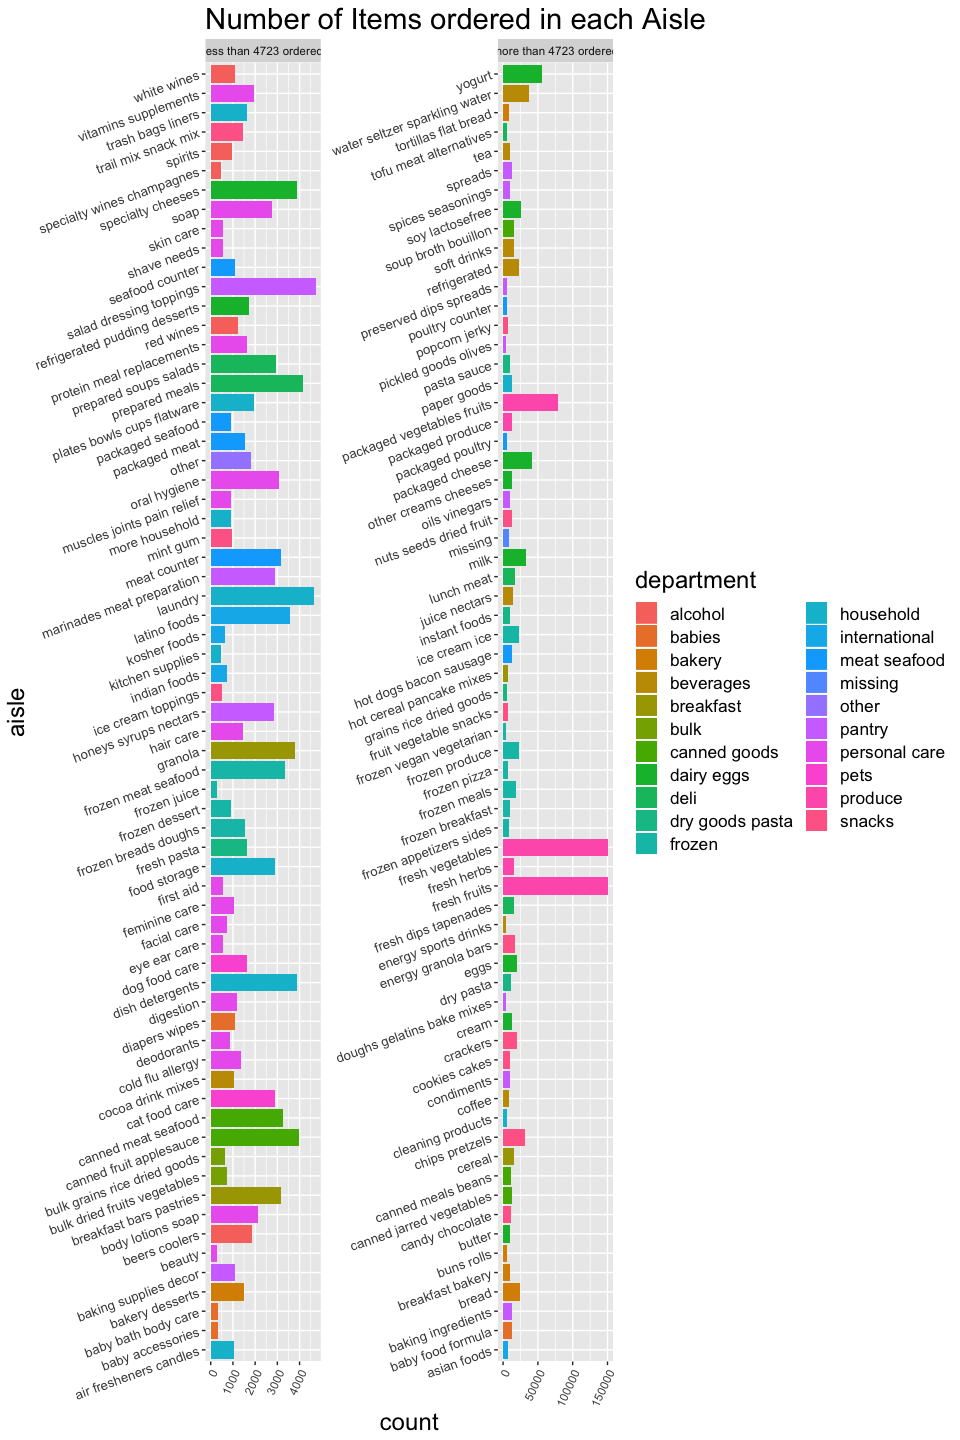
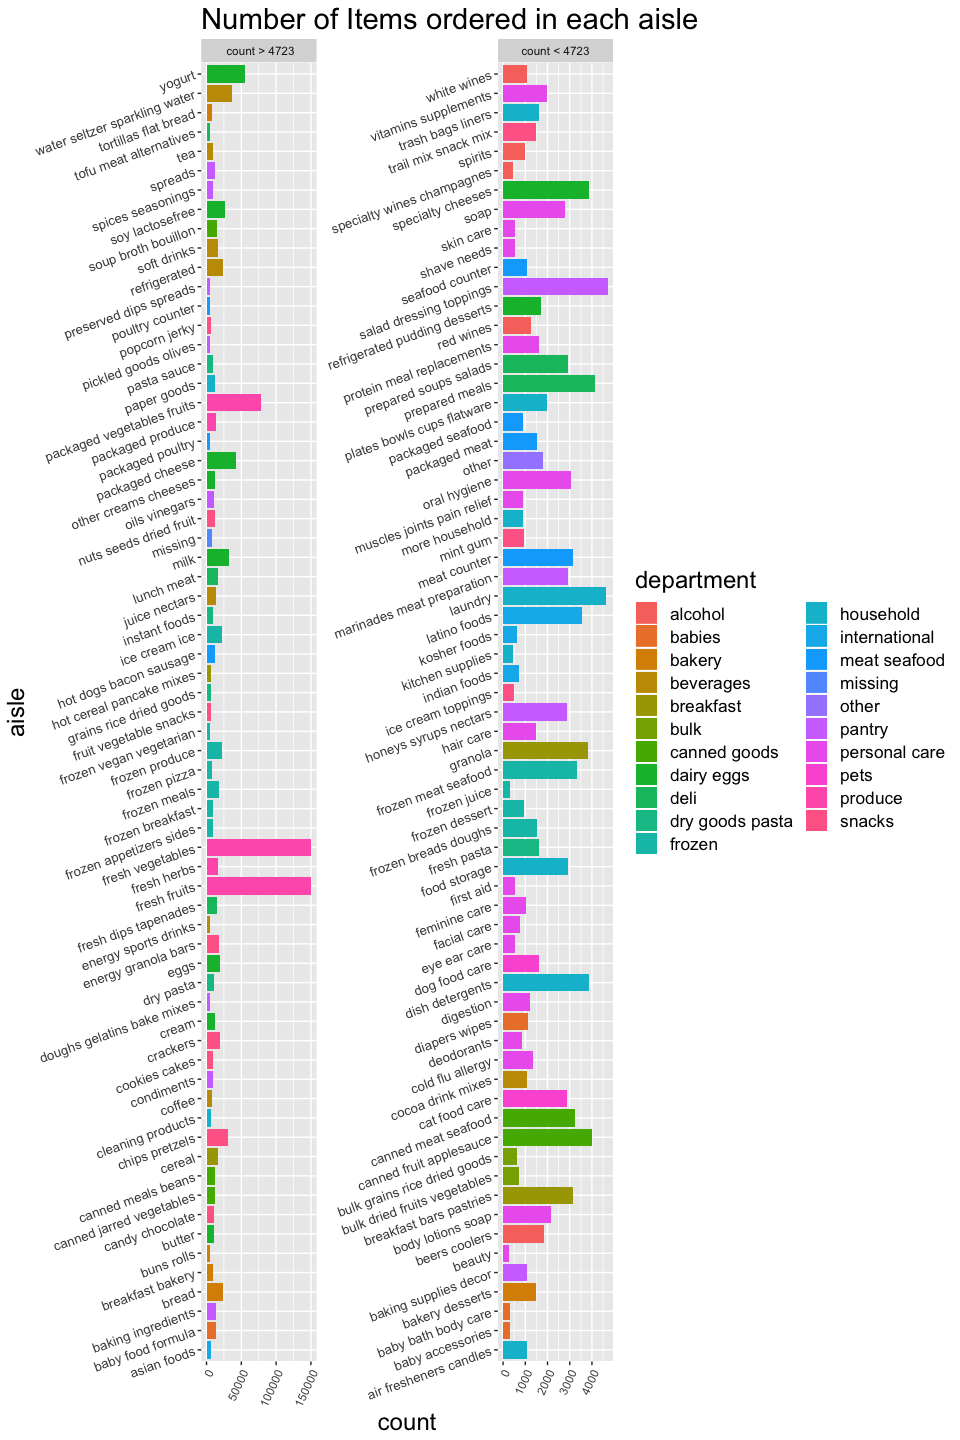
problem 3 - data cleaning

Changed region(s): [[0.0625, 0.0, 0.75, 1.0], [0.375, 0.7188, 0.4062, 0.75], [0.0625, 0.7188, 0.0938, 0.75]]

diff --git a/p8105_hw3.md b/p8105_hw3.md
@@ -94,9 +94,9 @@ data(instacart)
 aisle_count = instacart %>% 
   group_by(aisle, department) %>% 
   summarise(n = n()) %>% 
-  mutate(split = ifelse(n > 4723, "more than 4723 ordered", "less than 4723 ordered"))
+  mutate(split = ifelse(n > 4723, " count > 4723", "count < 4723")) 
 
-ggplot(aisle_count, aes(x = aisle, y = n, fill = department)) + geom_bar(stat="identity") + labs(title = "Number of Items ordered in each Aisle", y = "count") + theme(axis.text.y = element_text(angle = 20, hjust = 1)) + facet_wrap(~ split, scales = "free",  ncol = 2) + theme(axis.text.x = element_text(angle = 65, hjust = 1), axis.text.y = element_text(size = 10), plot.title = element_text(size = 22), legend.text = element_text(size = 13), axis.title.x = element_text(size = 18), axis.title.y = element_text(size = 18), legend.title=element_text(size=18)) + coord_flip()
+ggplot(aisle_count, aes(x = aisle, y = n, fill = department)) + geom_bar(stat="identity") + labs(title = "Number of Items ordered in each aisle", y = "count") + theme(axis.text.y = element_text(angle = 20, hjust = 1)) + facet_wrap(~ split, scales = "free",  ncol = 2) + theme(axis.text.x = element_text(angle = 65, hjust = 1), axis.text.y = element_text(size = 10), plot.title = element_text(size = 22), legend.text = element_text(size = 13), axis.title.x = element_text(size = 18), axis.title.y = element_text(size = 18), legend.title = element_text(size=18)) + coord_flip()
 ```
 
 ![](p8105_hw3_files/figure-gfm/unnamed-chunk-3-1.png)<!-- -->
@@ -110,7 +110,7 @@ popular_items = instacart %>%
   group_by(aisle) %>%  slice(which.max(n)) %>% 
   select(aisle, product_name)
 
-kable(popular_items, caption = "Most Popular Items")
+kable(popular_items, caption = "Most Popular Item in Each Aisle")
 ```
 
 | aisle                      | product\_name                                 |
@@ -119,7 +119,7 @@ kable(popular_items, caption = "Most Popular Items")
 | dog food care              | Snack Sticks Chicken & Rice Recipe Dog Treats |
 | packaged vegetables fruits | Organic Baby Spinach                          |
 
-Most Popular Items
+Most Popular Item in Each Aisle
 
 ``` r
 order_hour = instacart %>% 
@@ -140,3 +140,47 @@ kable(order_hour, digits = 2, col.names = c("Product Name", "Monday", "Tuesday",
 | Pink Lady Apples |  13.44 |   11.36 |     11.70 |    14.25 |  11.55 |    12.78 |  11.94 |
 
 Mean Hour of Day Orders are Placed
+
+## Problem 3
+
+The original dataset from NOAA National Climatic Data Center has 7
+columns and 2595176 rows, with a lot of missing entries. The column
+names are id, date, prcp, snow, snwd, tmax, tmin. The id gives the
+weather station ID, and the rest of the columns record snowfall related
+observations by date. There are a lot of missing data because each
+weather station may not collect data every day, and might not have
+collected for all variables.
+
+Here I cleaned the data by converting the date column into 3 columns:
+year, month, day. I switched the units for snow (snowfall) and snwd
+(snow depth) from mm to inches, prcp (precipitation) from tenths of mm
+to mm, and tmax/tmin (temperature) from tenths of Celcius to Celcius.
+
+``` r
+data(ny_noaa)
+
+noaa = ny_noaa %>% 
+  separate(date, into = c("year", "month", "day"), sep = "-") %>% 
+  mutate(snow = snow*0.039, snwd = snwd*0.039, prcp = prcp*0.1, tmax = as.numeric(tmax)*0.1, tmin = as.numeric(tmin)*0.1) 
+kable(head(noaa))
+```
+
+| id          | year | month | day | prcp | snow | snwd | tmax | tmin |
+| :---------- | :--- | :---- | :-- | ---: | ---: | ---: | ---: | ---: |
+| US1NYAB0001 | 2007 | 11    | 01  |   NA |   NA |   NA |   NA |   NA |
+| US1NYAB0001 | 2007 | 11    | 02  |   NA |   NA |   NA |   NA |   NA |
+| US1NYAB0001 | 2007 | 11    | 03  |   NA |   NA |   NA |   NA |   NA |
+| US1NYAB0001 | 2007 | 11    | 04  |   NA |   NA |   NA |   NA |   NA |
+| US1NYAB0001 | 2007 | 11    | 05  |   NA |   NA |   NA |   NA |   NA |
+| US1NYAB0001 | 2007 | 11    | 06  |   NA |   NA |   NA |   NA |   NA |
+
+A few of the most commonly observed values for snowfall in inches:
+2.964, 1.989, 0.507, 0.975, 0. These values are close to zero which is
+reasonable because the average of overall observed snowfall is 0.194494
+and the top five observed months are 05, 08, 07, 12, 10 - there are more
+summer months observed than winter months.
+
+``` r
+january_july = noaa %>% 
+  filter(month == 01 | month == 07)
+```
